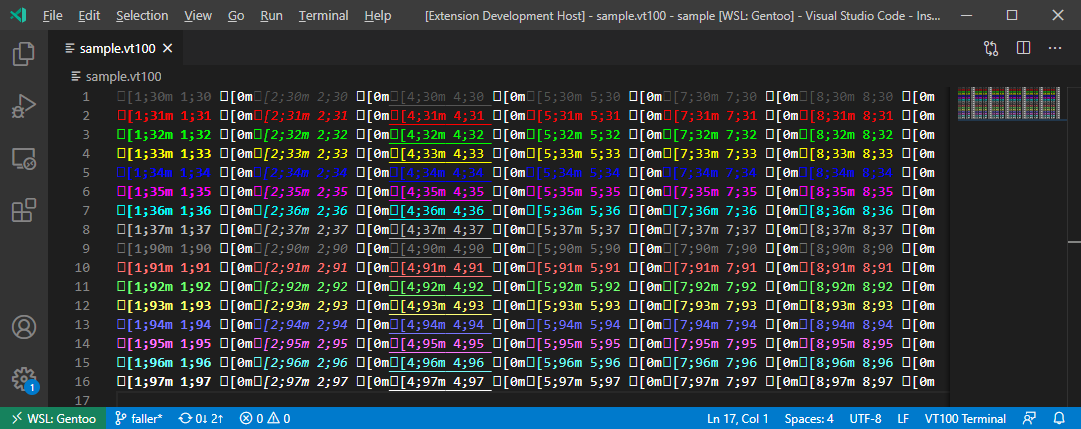
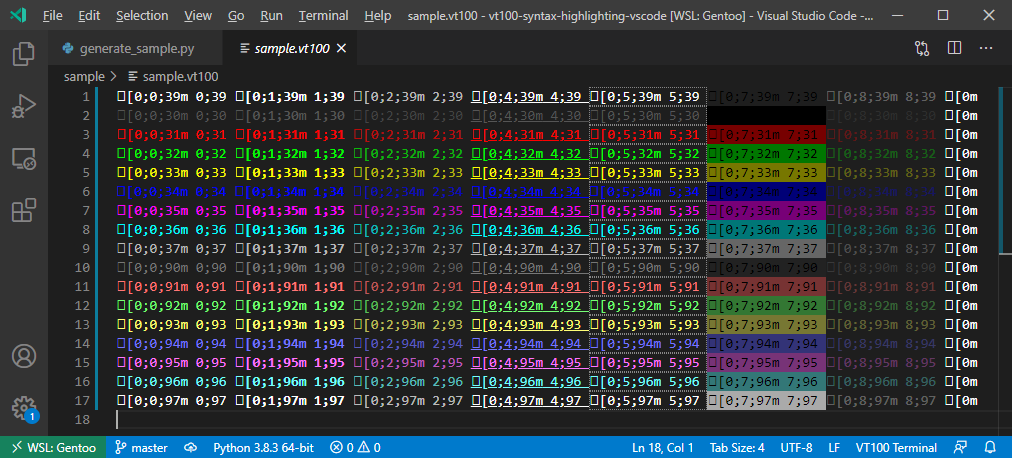
Updated samples

diff --git a/sample/generate_sample.py b/sample/generate_sample.py
@@ -1,11 +1,13 @@
 #!/bin/env python3
 COLORS = [
+    39,
     30, 31, 32, 33, 34, 35, 36, 37,
     90, 91, 92, 93, 94, 95, 96, 97
 ]
 
 for fgColor in COLORS:
     line = ""
-    for style in [1, 2, 4, 5, 7, 8]:
-        line += f"\x1b[{style};{fgColor}m {style};{fgColor} \x1b[0m"
+    for style in [0, 1, 2, 4, 5, 7, 8]:
+        line += f"\x1b[0;{style};{fgColor}m {style};{fgColor} "
+    line += "\x1b[0m"
     print(line)
